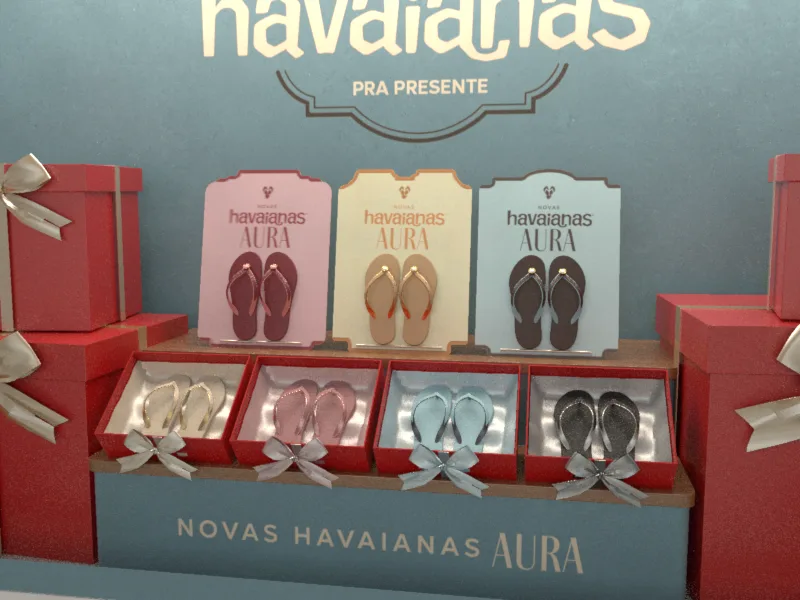
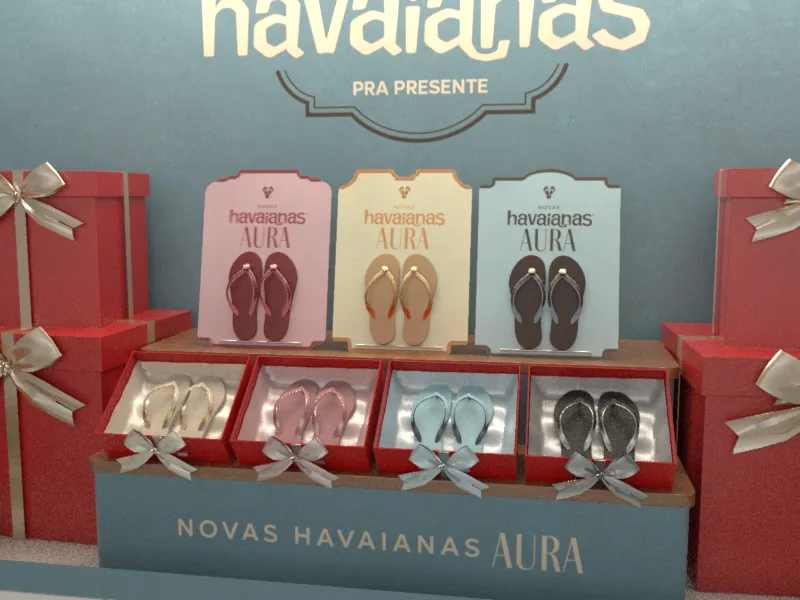
Havaianas Aura: peças leves no padrão Nutrire (testeira, stopper, wobbler, clip strip, moldura, tag, carrinho), vitrine corrigida, ilha rosa

diff --git a/havaianas-aura-maes-75lab/index.html b/havaianas-aura-maes-75lab/index.html
@@ -9,7 +9,7 @@
 <meta name="robots" content="noindex">
 <link rel="preconnect" href="https://fonts.googleapis.com"><link rel="preconnect" href="https://fonts.gstatic.com" crossorigin>
 <link href="https://fonts.googleapis.com/css2?family=Big+Shoulders+Display:wght@700;900&family=Space+Grotesk:wght@400;500;600;700&family=Space+Mono:wght@400;700&display=swap" rel="stylesheet">
-<link rel="stylesheet" href="assets/deck.css"><link rel="stylesheet" href="assets/bombril.css"><link rel="stylesheet" href="assets/v2.css"><link rel="stylesheet" href="assets/havaianas.css?v=202611242121">
+<link rel="stylesheet" href="assets/deck.css"><link rel="stylesheet" href="assets/bombril.css"><link rel="stylesheet" href="assets/v2.css"><link rel="stylesheet" href="assets/havaianas.css?v=202611242138">
 </head>
 <body>
 <svg width="0" height="0" style="position:absolute" aria-hidden="true">
@@ -169,13 +169,14 @@
         <dl class="ficha-core anima d3"><dt>Largura</dt><dd>120 cm</dd><dt>Laterais</dt><dd>3 camadas, arte da ilha</dd><dt>Testeira</dt><dd>topo da arte da ilha</dd><dt>Produto</dt><dd>pares presos na base de trás</dd></dl></div>
       <div class="paineis foto-core anima dir d1"><div data-painel="0" class="on"><figure class="amplia" data-amplia="assets/img/ponta-az-1.webp" data-legenda="Azul" data-cursor="Ampliar"><img src="assets/img/ponta-az-1.webp" alt="Azul" loading="lazy"></figure><p>Frontal: testeira com o selo e os Charms.</p></div><div data-painel="1" class=""><figure class="amplia" data-amplia="assets/img/ponta-az-2.webp" data-legenda="Azul · esquerda" data-cursor="Ampliar"><img src="assets/img/ponta-az-2.webp" alt="Azul · esquerda" loading="lazy"></figure><p>A lateral cobre a gancheira.</p></div><div data-painel="2" class=""><figure class="amplia" data-amplia="assets/img/ponta-az-3.webp" data-legenda="Azul · direita" data-cursor="Ampliar"><img src="assets/img/ponta-az-3.webp" alt="Azul · direita" loading="lazy"></figure><p>Os Glossy na lateral.</p></div><div data-painel="3" class=""><figure class="amplia" data-amplia="assets/img/ponta-rs-1.webp" data-legenda="Rosa" data-cursor="Ampliar"><img src="assets/img/ponta-rs-1.webp" alt="Rosa" loading="lazy"></figure><p>A ponta no caminho rosa.</p></div><div data-painel="4" class=""><figure class="amplia" data-amplia="assets/img/ponta-rs-2.webp" data-legenda="Rosa · 3/4" data-cursor="Ampliar"><img src="assets/img/ponta-rs-2.webp" alt="Rosa · 3/4" loading="lazy"></figure><p>Rosa em 3/4.</p></div></div>
     </div></div></section>
-<section id="leves" class="tela s-core n" data-tema="escuro" data-titulo="Peças leves" data-cap="(03) B2B alimentar">
-    <div class="caixa"><div class="gr-core">
-      <div class="txt-core"><span class="eyebrow anima">B2B alimentar · kit de gôndola</span><h2 class="anima">O selo funciona <span class="t-lime">em qualquer tamanho.</span></h2><p class="lead anima d1">Stopper, wobbler, clip strip com os pares e placa de carrinho: o kit leve leva a marca e a data para toda loja.</p>
-        <div class="abas-b vers anima d2"><button data-aba="0" class="on" data-cursor="Ver"><i>01</i><b>Azul · gôndola</b></button><button data-aba="1" class="" data-cursor="Ver"><i>02</i><b>Azul · detalhe</b></button><button data-aba="2" class="" data-cursor="Ver"><i>03</i><b>Azul · carrinho</b></button><button data-aba="3" class="" data-cursor="Ver"><i>04</i><b>Rosa · gôndola</b></button><button data-aba="4" class="" data-cursor="Ver"><i>05</i><b>Rosa · detalhe</b></button><button data-aba="5" class="" data-cursor="Ver"><i>06</i><b>Rosa · carrinho</b></button></div>
-        <dl class="ficha-core anima d3"><dt>Stopper</dt><dd>30 x 90 cm</dd><dt>Wobbler</dt><dd>15 x 15 cm</dd><dt>Clip strip</dt><dd>cartela de 16 cm, 5 pares</dd><dt>Carrinho</dt><dd>placa 30 x 30 cm</dd></dl></div>
-      <div class="paineis foto-core anima dir d1"><div data-painel="0" class="on"><figure class="amplia" data-amplia="assets/img/leves-az-1.webp" data-legenda="Azul · gôndola" data-cursor="Ampliar"><img src="assets/img/leves-az-1.webp" alt="Azul · gôndola" loading="lazy"></figure><p>O kit aplicado numa gôndola vazia: clip strip, wobbler e stopper.</p></div><div data-painel="1" class=""><figure class="amplia" data-amplia="assets/img/leves-az-2.webp" data-legenda="Azul · detalhe" data-cursor="Ampliar"><img src="assets/img/leves-az-2.webp" alt="Azul · detalhe" loading="lazy"></figure><p>Clip strip com a cartela, wobbler e o stopper com a arte.</p></div><div data-painel="2" class=""><figure class="amplia" data-amplia="assets/img/carrinho-az.webp" data-legenda="Azul · carrinho" data-cursor="Ampliar"><img src="assets/img/carrinho-az.webp" alt="Azul · carrinho" loading="lazy"></figure><p>Placa de carrinho 30 x 30 cm.</p></div><div data-painel="3" class=""><figure class="amplia" data-amplia="assets/img/leves-rs-1.webp" data-legenda="Rosa · gôndola" data-cursor="Ampliar"><img src="assets/img/leves-rs-1.webp" alt="Rosa · gôndola" loading="lazy"></figure><p>O kit no caminho rosa.</p></div><div data-painel="4" class=""><figure class="amplia" data-amplia="assets/img/leves-rs-2.webp" data-legenda="Rosa · detalhe" data-cursor="Ampliar"><img src="assets/img/leves-rs-2.webp" alt="Rosa · detalhe" loading="lazy"></figure><p>Clip strip e stopper em rosa.</p></div><div data-painel="5" class=""><figure class="amplia" data-amplia="assets/img/carrinho-rs.webp" data-legenda="Rosa · carrinho" data-cursor="Ampliar"><img src="assets/img/carrinho-rs.webp" alt="Rosa · carrinho" loading="lazy"></figure><p>Placa de carrinho em rosa.</p></div></div>
-    </div></div></section>
+<section id="leves" class="tela s-bniv n" data-tema="escuro" data-titulo="Peças leves" data-cap="(03) B2B alimentar">
+  <div class="caixa"><div class="bn-gr">
+    <div class="bn-esq"><span class="eyebrow anima"><b>B2B alimentar</b> · kit de gôndola</span>
+      <h2 class="anima d1">Peças <span class="t-lime">leves</span></h2>
+      <p class="anima d1">O selo funciona em qualquer tamanho: cada peça leva a marca e a data para toda loja. Em cada uma, a peça sozinha e a peça aplicada.</p>
+      <div class="bn-lista anima d2"><button data-aba class="on" data-cursor="Ver"><i>01</i><b>Testeira de gôndola</b><small>100 x 30 cm</small></button><button data-aba class="" data-cursor="Ver"><i>02</i><b>Stopper</b><small>30 x 90 cm</small></button><button data-aba class="" data-cursor="Ver"><i>03</i><b>Wobbler</b><small>15 x 15 cm</small></button><button data-aba class="" data-cursor="Ver"><i>04</i><b>Clip strip</b><small>cartela + 5 pares</small></button><button data-aba class="" data-cursor="Ver"><i>05</i><b>Moldura de gôndola</b><small>36 x 101 cm</small></button><button data-aba class="" data-cursor="Ver"><i>06</i><b>Tag</b><small>18 x 10 cm</small></button><button data-aba class="" data-cursor="Ver"><i>07</i><b>Placa de carrinho</b><small>30 x 30 cm</small></button><button data-aba class="" data-cursor="Ver"><i>08</i><b>Kit rosa</b><small>caminho 2</small></button></div></div>
+    <div class="bn-palco anima d2"><div class="bn-p on" data-painel><div class="bn-fotos duas cobre"><figure class="amplia" data-amplia="assets/img/testeira-solo.webp" data-legenda="Testeira · a peça" data-cursor="Ampliar"><img src="assets/img/testeira-solo.webp" alt="Testeira · a peça" loading="lazy"><figcaption>a peça</figcaption></figure><figure class="amplia" data-amplia="assets/img/testeira-aplicada.webp" data-legenda="Testeira · aplicada" data-cursor="Ampliar"><img src="assets/img/testeira-aplicada.webp" alt="Testeira · aplicada" loading="lazy"><figcaption>aplicada</figcaption></figure></div><div class="bn-ficha"><h3>Testeira de gôndola</h3><dl><div><dt>Onde</dt><dd>No topo do módulo da Havaianas, com os lançamentos expostos logo abaixo</dd></div><div><dt>Material</dt><dd>PS 2 mm, impressão 4/0, faca no contorno da moldura</dd></div><div><dt>Medida</dt><dd>100 x 30 cm</dd></div></dl></div></div><div class="bn-p " data-painel><div class="bn-fotos duas cobre"><figure class="amplia" data-amplia="assets/img/stopper-close.webp" data-legenda="Stopper · a peça" data-cursor="Ampliar"><img src="assets/img/stopper-close.webp" alt="Stopper · a peça" loading="lazy"><figcaption>a peça</figcaption></figure><figure class="amplia" data-amplia="assets/img/leves-az-2.webp" data-legenda="Stopper · aplicado" data-cursor="Ampliar"><img src="assets/img/leves-az-2.webp" alt="Stopper · aplicado" loading="lazy"><figcaption>aplicado</figcaption></figure></div><div class="bn-ficha"><h3>Stopper</h3><dl><div><dt>Onde</dt><dd>Perpendicular à gôndola, preso no trilho de preço pelo lado reto</dd></div><div><dt>Material</dt><dd>PS 2 mm, impressão 4/4, faca no contorno</dd></div><div><dt>Medida</dt><dd>30 x 90 cm</dd></div></dl></div></div><div class="bn-p " data-painel><div class="bn-fotos duas cobre"><figure class="amplia" data-amplia="assets/img/wobbler-close.webp" data-legenda="Wobbler · a peça" data-cursor="Ampliar"><img src="assets/img/wobbler-close.webp" alt="Wobbler · a peça" loading="lazy"><figcaption>a peça</figcaption></figure><figure class="amplia" data-amplia="assets/img/leves-az-1.webp" data-legenda="Wobbler · aplicado" data-cursor="Ampliar"><img src="assets/img/leves-az-1.webp" alt="Wobbler · aplicado" loading="lazy"><figcaption>aplicado</figcaption></figure></div><div class="bn-ficha"><h3>Wobbler</h3><dl><div><dt>Onde</dt><dd>Na frente da prateleira, na altura dos olhos</dd></div><div><dt>Material</dt><dd>PS 1 mm, impressão 4/0, haste de acrílico</dd></div><div><dt>Medida</dt><dd>15 x 15 cm</dd></div></dl></div></div><div class="bn-p " data-painel><div class="bn-fotos duas cobre"><figure class="amplia" data-amplia="assets/img/clip-close.webp" data-legenda="Clip strip · a peça" data-cursor="Ampliar"><img src="assets/img/clip-close.webp" alt="Clip strip · a peça" loading="lazy"><figcaption>a peça</figcaption></figure><figure class="amplia" data-amplia="assets/img/leves-az-1.webp" data-legenda="Clip strip · aplicado" data-cursor="Ampliar"><img src="assets/img/leves-az-1.webp" alt="Clip strip · aplicado" loading="lazy"><figcaption>aplicado</figcaption></figure></div><div class="bn-ficha"><h3>Clip strip</h3><dl><div><dt>Onde</dt><dd>Na emenda entre dois módulos, preso no trilho</dd></div><div><dt>Material</dt><dd>Tira em PS 1 mm e cartela em PS 2 mm, 4/4</dd></div><div><dt>Capacidade</dt><dd>5 pares Aura</dd></div></dl></div></div><div class="bn-p " data-painel><div class="bn-fotos duas cobre"><figure class="amplia" data-amplia="assets/img/moldura-solo.webp" data-legenda="Moldura · azul e rosa" data-cursor="Ampliar"><img src="assets/img/moldura-solo.webp" alt="Moldura · azul e rosa" loading="lazy"><figcaption>azul e rosa</figcaption></figure><figure class="amplia" data-amplia="assets/img/moldura-aplicada.webp" data-legenda="Moldura · aplicada" data-cursor="Ampliar"><img src="assets/img/moldura-aplicada.webp" alt="Moldura · aplicada" loading="lazy"><figcaption>aplicada</figcaption></figure></div><div class="bn-ficha"><h3>Moldura de gôndola</h3><dl><div><dt>Onde</dt><dd>Emoldura uma coluna de pares no módulo da Havaianas</dd></div><div><dt>Material</dt><dd>PS 2 mm, impressão 4/0, janela vazada</dd></div><div><dt>Medida</dt><dd>36 x 101 cm</dd></div></dl></div></div><div class="bn-p " data-painel><div class="bn-fotos duas cobre"><figure class="amplia" data-amplia="assets/img/tag-solo.webp" data-legenda="Tag · azul e rosa" data-cursor="Ampliar"><img src="assets/img/tag-solo.webp" alt="Tag · azul e rosa" loading="lazy"><figcaption>azul e rosa</figcaption></figure><figure class="amplia" data-amplia="assets/img/tag-aplicada.webp" data-legenda="Tag · aplicada" data-cursor="Ampliar"><img src="assets/img/tag-aplicada.webp" alt="Tag · aplicada" loading="lazy"><figcaption>aplicada</figcaption></figure></div><div class="bn-ficha"><h3>Tag</h3><dl><div><dt>Onde</dt><dd>No gancho, à frente do primeiro par</dd></div><div><dt>Material</dt><dd>PS 1 mm, impressão 4/4, faca com gancho</dd></div><div><dt>Medida</dt><dd>18 x 10 cm</dd></div></dl></div></div><div class="bn-p " data-painel><div class="bn-fotos uma cobre"><figure class="amplia" data-amplia="assets/img/carrinho-az.webp" data-legenda="Placa de carrinho · aplicada" data-cursor="Ampliar"><img src="assets/img/carrinho-az.webp" alt="Placa de carrinho · aplicada" loading="lazy"><figcaption>aplicada</figcaption></figure></div><div class="bn-ficha"><h3>Placa de carrinho</h3><dl><div><dt>Onde</dt><dd>Na frente do carrinho, fixada na grade</dd></div><div><dt>Material</dt><dd>PS 2 mm, impressão 4/0, abraçadeiras</dd></div><div><dt>Medida</dt><dd>30 x 30 cm</dd></div></dl></div></div><div class="bn-p " data-painel><div class="bn-fotos duas cobre"><figure class="amplia" data-amplia="assets/img/stopper-close-rs.webp" data-legenda="Kit rosa · stopper" data-cursor="Ampliar"><img src="assets/img/stopper-close-rs.webp" alt="Kit rosa · stopper" loading="lazy"><figcaption>stopper</figcaption></figure><figure class="amplia" data-amplia="assets/img/leves-rs-2.webp" data-legenda="Kit rosa · aplicado" data-cursor="Ampliar"><img src="assets/img/leves-rs-2.webp" alt="Kit rosa · aplicado" loading="lazy"><figcaption>aplicado</figcaption></figure></div><div class="bn-ficha"><h3>Kit rosa</h3><dl><div><dt>O quê</dt><dd>As mesmas peças com o card rosa</dd></div><div><dt>Faca</dt><dd>Igual à do azul: só muda a arte</dd></div><div><dt>Testeira</dt><dd>Versão rosa a definir; moldura e tag já têm rosa</dd></div></dl></div></div></div>
+  </div></div></section>
 <section id="cap-04" class="tela s-cap " data-tema="lime" data-titulo="Capítulo 04 · Próximos passos" data-cap="(04) Próximos passos" data-capitulo="04">
     <span class="num-cap sangra">04</span>
     <div class="texto"><span class="eyebrow anima"><b>Capítulo 04</b> de 04</span><h2 class="anima d1">Próximos passos</h2><p class="lead anima d2">Da escolha do caminho à loja montada.</p></div>
@@ -213,5 +214,6 @@
 <div id="cursor"></div><div id="anel"><span id="anelTxt"></span></div>
 <div id="gire"><img src="assets/75lab-lime.png" alt="75 LAB"><div class="tel"></div><h3>Gire o celular</h3><p>A apresentação foi desenhada na horizontal. Deitado, o celular mostra a tela inteira.</p><button class="botao mini" id="verAssim">Ver assim mesmo</button></div>
 <script src="assets/deck.js"></script>
+<script src="assets/havaianas.js?v=202611242138"></script>
 </body>
 </html>

diff --git a/havaianas-aura-maes-75lab/assets/havaianas.css b/havaianas-aura-maes-75lab/assets/havaianas.css
@@ -246,3 +246,49 @@ html.exec-on,html.exec-on body{overflow:hidden}
 #capa .texto .lead{max-width:470px;color:#F4EBDD}
 #capa h1{text-shadow:0 4px 18px rgba(18,35,43,.25)}
 #capa .rot{display:none!important}
+
+/* peças leves no padrão Nutrire: lista à esquerda, peça + aplicada à direita */
+/* telas de nível: lista à esquerda, render protagonista à direita */
+.s-bniv .caixa{gap:0!important}
+.bn-gr{flex:1;min-height:0;display:grid;grid-template-columns:360px 1fr;gap:34px}
+.bn-esq{display:flex;flex-direction:column;gap:12px;min-height:0}
+.bn-esq h2{font-size:64px;line-height:.9}
+.bn-esq>p{font-size:15px;line-height:1.4;opacity:.8}
+.bn-lista{display:flex;flex-direction:column;margin-top:6px;border-top:2px solid var(--linha-e)}
+.bn-lista button{display:grid;grid-template-columns:34px 1fr;column-gap:10px;text-align:left;padding:10px 4px;background:none;border:0;border-bottom:1px solid var(--linha-e);color:inherit;font:inherit;cursor:pointer;transition:background .3s,color .3s,padding .3s}
+.bn-lista button i{grid-row:span 2;font-style:normal;font-family:var(--mono);font-size:11px;opacity:.6;padding-top:4px}
+.bn-lista button b{font-family:var(--titulo);font-weight:900;font-size:21px;line-height:1;text-transform:uppercase}
+.bn-lista button small{font-family:var(--mono);font-size:10px;letter-spacing:.08em;text-transform:uppercase;opacity:.6;margin-top:3px}
+.bn-lista button.on{background:var(--lime);color:var(--ink);padding-left:12px}
+.bn-lista button.on i,.bn-lista button.on small{opacity:.8}
+.bn-palco{position:relative;min-height:0}
+.bn-p{position:absolute;inset:0;display:grid;grid-template-rows:1fr auto;gap:14px;opacity:0;visibility:hidden;transition:opacity .45s ease}
+.bn-p.on{opacity:1;visibility:inherit}
+.bn-fotos{min-height:0;display:grid;gap:12px}
+.bn-fotos.duas{grid-template-columns:1.25fr 1fr}
+.bn-fotos figure{min-height:0;background:#E2E2E4;overflow:hidden;cursor:zoom-in;display:flex;align-items:center;justify-content:center}
+.bn-fotos img{width:100%;height:100%;object-fit:contain}
+.bn-fotos.duas figure+figure img{object-fit:cover}
+.bn-p.on .bn-fotos figure{animation:ySobe .8s cubic-bezier(.2,.8,.2,1.1) both}
+.bn-p.on .bn-fotos figure+figure{animation-delay:.12s}
+.bn-ficha{display:grid;grid-template-columns:auto 1fr;gap:26px;align-items:end;border-top:2px solid var(--linha-e);padding-top:12px}
+.bn-ficha h3{font-family:var(--titulo);font-weight:900;font-size:34px;line-height:.95;text-transform:uppercase;max-width:300px}
+.bn-ficha dl{display:grid;grid-template-columns:repeat(3,1fr);gap:18px}
+.bn-ficha dt{font-family:var(--mono);font-size:10px;letter-spacing:.12em;text-transform:uppercase;color:var(--lime)}
+.bn-ficha dd{font-size:14px;line-height:1.35;margin-top:4px}
+/* alturas fixas no palco de 1600 x 900 */
+.bn-gr{flex:none;height:650px}
+.bn-fotos{grid-template-rows:minmax(0,1fr)}
+.bn-fotos figure{height:100%}
+.bn-p{grid-template-rows:minmax(0,1fr) auto}
+.bn-fotos figure{position:relative}
+.bn-fotos img{position:absolute;inset:0}
+.bn-ficha{min-height:0}
+.s-bniv .bn-p[data-painel]{display:grid}
+.bn-gr{height:770px}
+.bn-fotos.cobre img{object-fit:cover}
+.bn-fotos.duas.cobre{grid-template-columns:1.5fr 1fr}
+.bn-fotos figure[data-amplia*="-giro"]::after{content:"↻ 360°";position:absolute;left:14px;top:14px;z-index:2;padding:6px 10px;background:var(--lime);color:var(--ink);font-family:var(--mono);font-size:11px;font-weight:700;letter-spacing:.1em}
+.bn-fotos figure{background:radial-gradient(circle at 50% 42%,#F6F1E8 0%,#E9E1D3 62%,#D2C6B2 100%)}
+.bn-fotos figure figcaption{position:absolute;left:12px;bottom:10px;z-index:2;font-family:"Space Mono",monospace;font-size:11px;letter-spacing:.1em;text-transform:uppercase;background:var(--ink-2);color:var(--paper);padding:4px 8px}
+.bn-fotos.uma{grid-template-columns:1fr}

diff --git a/havaianas-aura-maes-75lab/assets/havaianas.js b/havaianas-aura-maes-75lab/assets/havaianas.js
@@ -1,0 +1,8 @@
+/* HAV009: abas em todas as telas (o deck base só liga a primeira de cada tipo) e vídeo só no painel aberto */
+document.querySelectorAll('section.tela').forEach(function(t){
+  var b=[].slice.call(t.querySelectorAll('[data-aba]')),p=[].slice.call(t.querySelectorAll('[data-painel]'));
+  if(!b.length)return;
+  b.forEach(function(x,k){x.addEventListener('click',function(e){e.stopPropagation();
+    b.forEach(function(y,j){y.classList.toggle('on',j===k)});p.forEach(function(y,j){y.classList.toggle('on',j===k);
+      y.querySelectorAll('video').forEach(function(v){j===k?v.play():v.pause()})})})});
+});

diff --git a/havaianas-aura-maes-75lab/fonte/montar.py b/havaianas-aura-maes-75lab/fonte/montar.py
@@ -130,10 +130,39 @@ T.append(core('ponta', '(03) B2B alimentar', 'Ponta de gôndola', 'B2B alimentar
     [('Azul', 'ponta-az-1', 'Frontal: testeira com o selo e os Charms.'), ('Azul · esquerda', 'ponta-az-2', 'A lateral cobre a gancheira.'), ('Azul · direita', 'ponta-az-3', 'Os Glossy na lateral.'),
      ('Rosa', 'ponta-rs-1', 'A ponta no caminho rosa.'), ('Rosa · 3/4', 'ponta-rs-2', 'Rosa em 3/4.')],
     [('Largura', '120 cm'), ('Laterais', '3 camadas, arte da ilha'), ('Testeira', 'topo da arte da ilha'), ('Produto', 'pares presos na base de trás')]))
-T.append(core('leves', '(03) B2B alimentar', 'Peças leves', 'B2B alimentar · kit de gôndola', 'O selo funciona <span class="t-lime">em qualquer tamanho.</span>', 'Stopper, wobbler, clip strip com os pares e placa de carrinho: o kit leve leva a marca e a data para toda loja.',
-    [('Azul · gôndola', 'leves-az-1', 'O kit aplicado numa gôndola vazia: clip strip, wobbler e stopper.'), ('Azul · detalhe', 'leves-az-2', 'Clip strip com a cartela, wobbler e o stopper com a arte.'), ('Azul · carrinho', 'carrinho-az', 'Placa de carrinho 30 x 30 cm.'),
-     ('Rosa · gôndola', 'leves-rs-1', 'O kit no caminho rosa.'), ('Rosa · detalhe', 'leves-rs-2', 'Clip strip e stopper em rosa.'), ('Rosa · carrinho', 'carrinho-rs', 'Placa de carrinho em rosa.')],
-    [('Stopper', '30 x 90 cm'), ('Wobbler', '15 x 15 cm'), ('Clip strip', 'cartela de 16 cm, 5 pares'), ('Carrinho', 'placa 30 x 30 cm')]))
+def bn_fig(src, leg):
+    return '<figure class="amplia" data-amplia="assets/img/%s.webp" data-legenda="%s" data-cursor="Ampliar"><img src="assets/img/%s.webp" alt="%s" loading="lazy"><figcaption>%s</figcaption></figure>' % (src, leg, src, leg, leg.split(' · ')[-1])
+LEVES = [  # (nome, material, [(imagem, legenda)], [(dt, dd)])
+    ('Testeira de gôndola', '100 x 30 cm', [('testeira-solo', 'Testeira · a peça'), ('testeira-aplicada', 'Testeira · aplicada')],
+     [('Onde', 'No topo do módulo da Havaianas, com os lançamentos expostos logo abaixo'), ('Material', 'PS 2 mm, impressão 4/0, faca no contorno da moldura'), ('Medida', '100 x 30 cm')]),
+    ('Stopper', '30 x 90 cm', [('stopper-close', 'Stopper · a peça'), ('leves-az-2', 'Stopper · aplicado')],
+     [('Onde', 'Perpendicular à gôndola, preso no trilho de preço pelo lado reto'), ('Material', 'PS 2 mm, impressão 4/4, faca no contorno'), ('Medida', '30 x 90 cm')]),
+    ('Wobbler', '15 x 15 cm', [('wobbler-close', 'Wobbler · a peça'), ('leves-az-1', 'Wobbler · aplicado')],
+     [('Onde', 'Na frente da prateleira, na altura dos olhos'), ('Material', 'PS 1 mm, impressão 4/0, haste de acrílico'), ('Medida', '15 x 15 cm')]),
+    ('Clip strip', 'cartela + 5 pares', [('clip-close', 'Clip strip · a peça'), ('leves-az-1', 'Clip strip · aplicado')],
+     [('Onde', 'Na emenda entre dois módulos, preso no trilho'), ('Material', 'Tira em PS 1 mm e cartela em PS 2 mm, 4/4'), ('Capacidade', '5 pares Aura')]),
+    ('Moldura de gôndola', '36 x 101 cm', [('moldura-solo', 'Moldura · azul e rosa'), ('moldura-aplicada', 'Moldura · aplicada')],
+     [('Onde', 'Emoldura uma coluna de pares no módulo da Havaianas'), ('Material', 'PS 2 mm, impressão 4/0, janela vazada'), ('Medida', '36 x 101 cm')]),
+    ('Tag', '18 x 10 cm', [('tag-solo', 'Tag · azul e rosa'), ('tag-aplicada', 'Tag · aplicada')],
+     [('Onde', 'No gancho, à frente do primeiro par'), ('Material', 'PS 1 mm, impressão 4/4, faca com gancho'), ('Medida', '18 x 10 cm')]),
+    ('Placa de carrinho', '30 x 30 cm', [('carrinho-az', 'Placa de carrinho · aplicada')],
+     [('Onde', 'Na frente do carrinho, fixada na grade'), ('Material', 'PS 2 mm, impressão 4/0, abraçadeiras'), ('Medida', '30 x 30 cm')]),
+    ('Kit rosa', 'caminho 2', [('stopper-close-rs', 'Kit rosa · stopper'), ('leves-rs-2', 'Kit rosa · aplicado')],
+     [('O quê', 'As mesmas peças com o card rosa'), ('Faca', 'Igual à do azul: só muda a arte'), ('Testeira', 'Versão rosa a definir; moldura e tag já têm rosa')]),
+]
+LEVES = [(n, m, [f for f in fs if IMG(f[0])], fc) for n, m, fs, fc in LEVES]
+LEVES = [l for l in LEVES if l[2]]
+bts = ''.join('<button data-aba class="%s" data-cursor="Ver"><i>%02d</i><b>%s</b><small>%s</small></button>' % ('on' if k == 0 else '', k + 1, n, m) for k, (n, m, fs, fc) in enumerate(LEVES))
+pns = ''.join('<div class="bn-p %s" data-painel><div class="bn-fotos %s cobre">%s</div><div class="bn-ficha"><h3>%s</h3><dl>%s</dl></div></div>' % (
+    'on' if k == 0 else '', 'duas' if len(fs) > 1 else 'uma', ''.join(bn_fig(a, b) for a, b in fs), n, ''.join('<div><dt>%s</dt><dd>%s</dd></div>' % x for x in fc)) for k, (n, m, fs, fc) in enumerate(LEVES))
+T.append('''<section id="leves" class="tela s-bniv n" data-tema="escuro" data-titulo="Peças leves" data-cap="(03) B2B alimentar">
+  <div class="caixa"><div class="bn-gr">
+    <div class="bn-esq"><span class="eyebrow anima"><b>B2B alimentar</b> · kit de gôndola</span>
+      <h2 class="anima d1">Peças <span class="t-lime">leves</span></h2>
+      <p class="anima d1">O selo funciona em qualquer tamanho: cada peça leva a marca e a data para toda loja. Em cada uma, a peça sozinha e a peça aplicada.</p>
+      <div class="bn-lista anima d2">%s</div></div>
+    <div class="bn-palco anima d2">%s</div>
+  </div></div></section>''' % (bts, pns))
 # ------------------------------------------------------------ 04 · próximos passos
 T.append(cap('04', 'Próximos passos', 'Da escolha do caminho à loja montada.', ['Escolha do caminho', 'Executivos e artes finais', 'Produção e implantação']))
 T.append('''<section id="proximos" class="tela v2-split n" data-tema="escuro" data-titulo="Próximos passos" data-cap="(04) Próximos passos">
@@ -179,7 +208,7 @@ HEAD = '''<title>Havaianas Aura Dia das Mães</title>
 <link rel="preconnect" href="https://fonts.googleapis.com"><link rel="preconnect" href="https://fonts.gstatic.com" crossorigin>
 <link href="https://fonts.googleapis.com/css2?family=Big+Shoulders+Display:wght@700;900&family=Space+Grotesk:wght@400;500;600;700&family=Space+Mono:wght@400;700&display=swap" rel="stylesheet">
 <link rel="stylesheet" href="assets/deck.css"><link rel="stylesheet" href="assets/bombril.css"><link rel="stylesheet" href="assets/v2.css"><link rel="stylesheet" href="assets/havaianas.css?v=VERSAO">'''.replace('VERSAO', VER)
-BODY = ICONES + '\n<div id="wrap"><div id="stage" class="t-lime capa">\n' + '\n'.join(T) + '\n' + CHROME + '\n</div></div>\n' + POS + '\n<script src="assets/deck.js"></script>\n'
+BODY = ICONES + '\n<div id="wrap"><div id="stage" class="t-lime capa">\n' + '\n'.join(T) + '\n' + CHROME + '\n</div></div>\n' + POS + '\n<script src="assets/deck.js"></script>\n<script src="assets/havaianas.js?v=' + VER + '"></script>\n'
 full = '<!doctype html>\n<html lang="pt-BR">\n<head>\n<meta charset="utf-8">\n<meta name="viewport" content="width=device-width, initial-scale=1">\n<link rel="icon" href="assets/75lab-lime.png">\n' + HEAD + '\n</head>\n<body>\n' + BODY + '</body>\n</html>\n'
 for bad in ('Bombril', 'Carnaval', 'Limpol', 'lantejoula'): assert bad not in full, bad
 open(os.path.join(ROOT, 'index.html'), 'w', encoding='utf-8').write(full)
